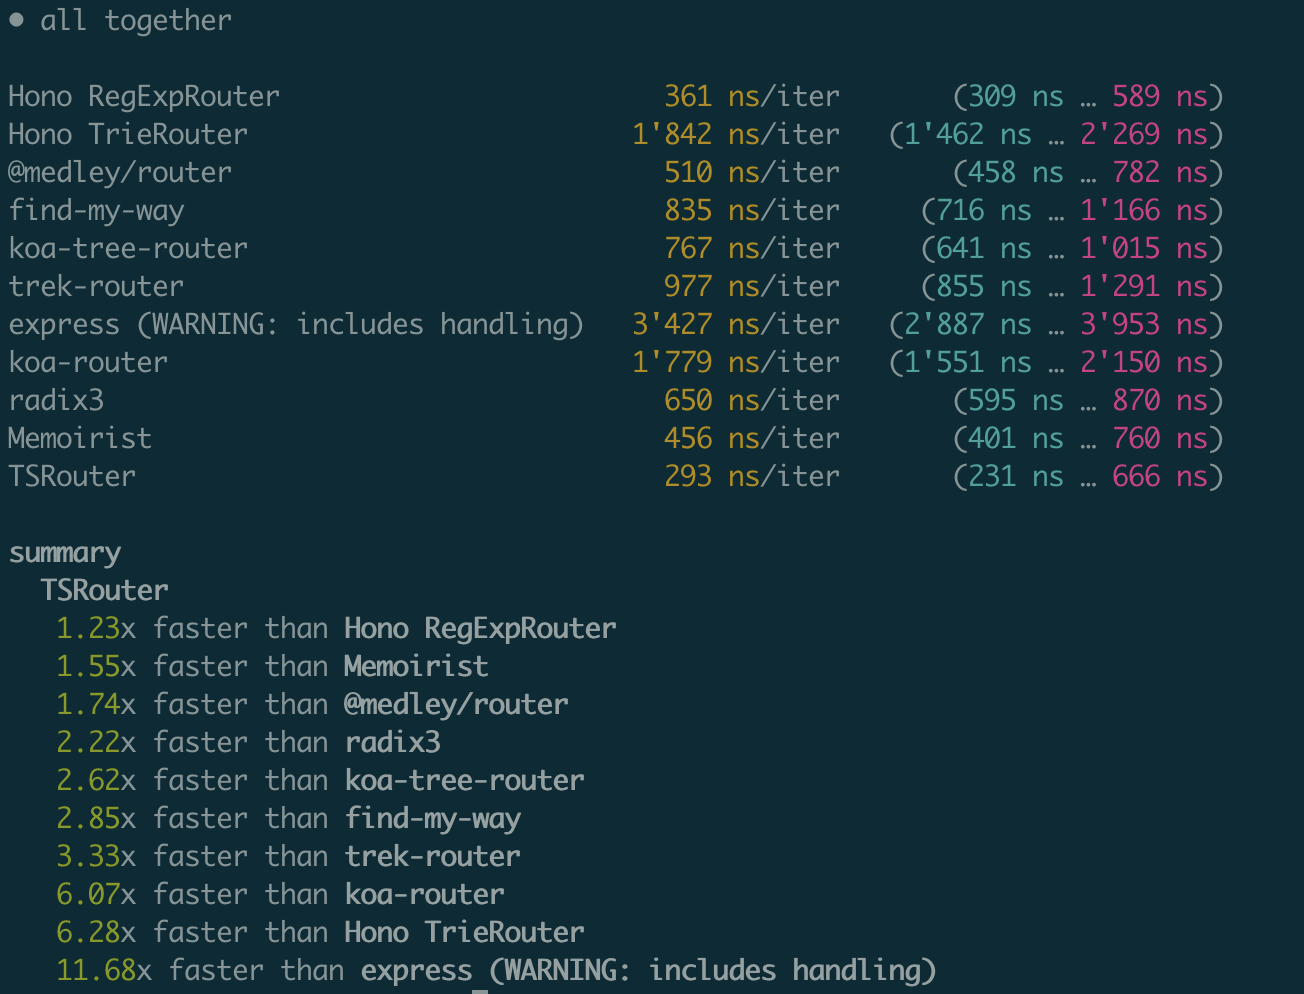
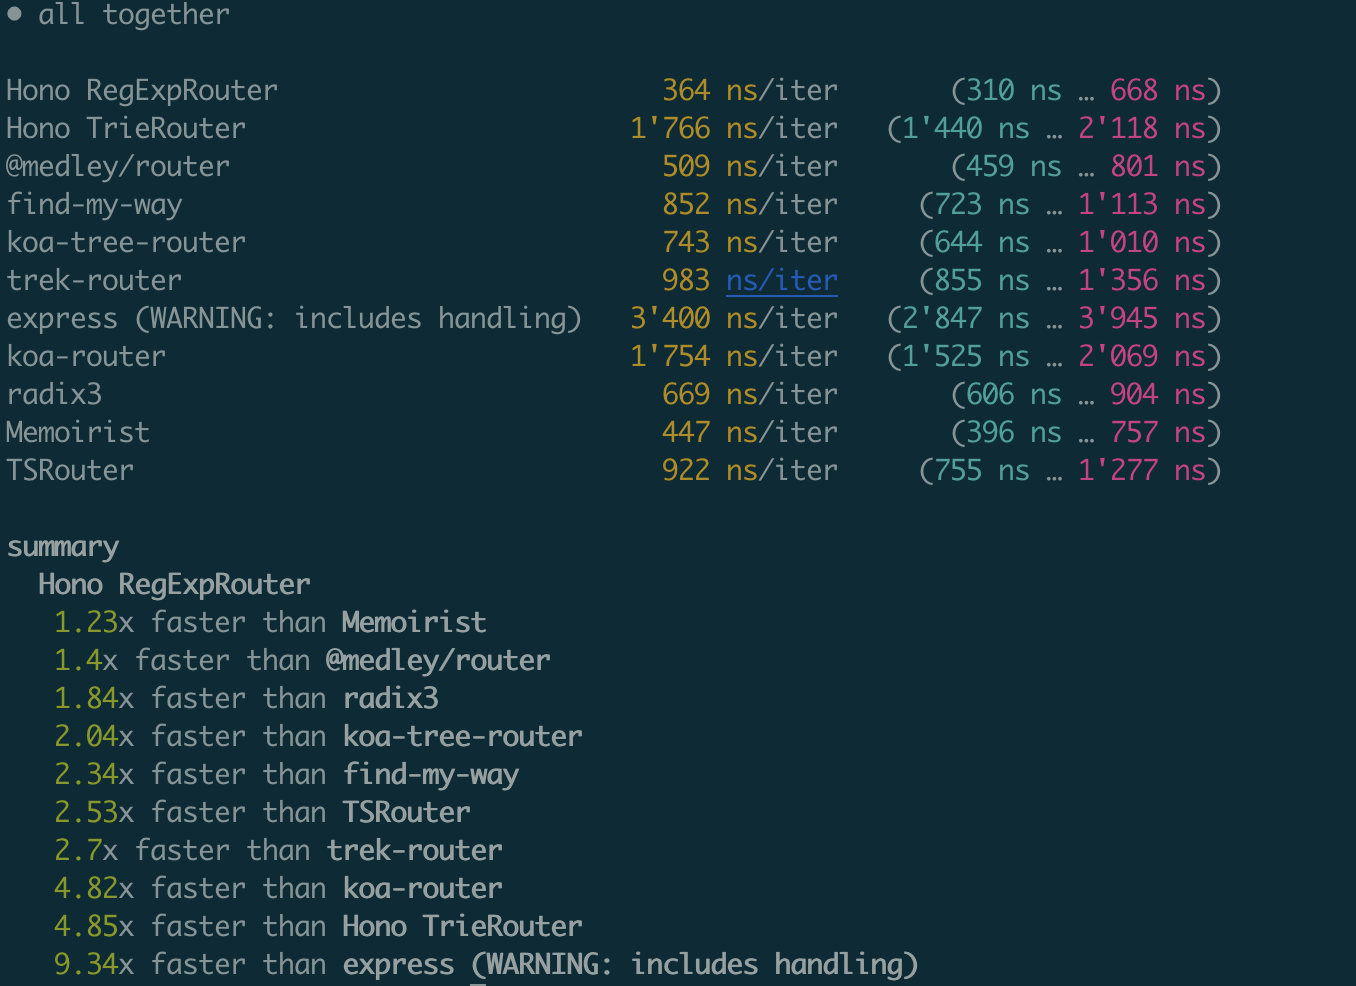
correct the benchmark

Changed region(s): [[0.0, 0.0609, 0.9509, 0.4868], [0.0, 0.5477, 0.7055, 1.0], [0.0, 0.0, 0.184, 0.0304]]

diff --git a/README.md b/README.md
@@ -3,7 +3,7 @@
 basic idea is from https://github.com/ghoullier/awesome-template-literal-types?tab=readme-ov-file#router-params-parsing
 
 * use [tire](https://en.wikipedia.org/wiki/Trie)
-* the fastest router in the js world. see [results](https://github.com/zhy0216/tsrouter/blob/master/benchmarks/result.png)
+* fast. see [results](https://github.com/zhy0216/tsrouter/blob/master/benchmarks/result.png)
 * tiny (1.3kb after minify, 0.8kb after zip)
 
 ## Notice
